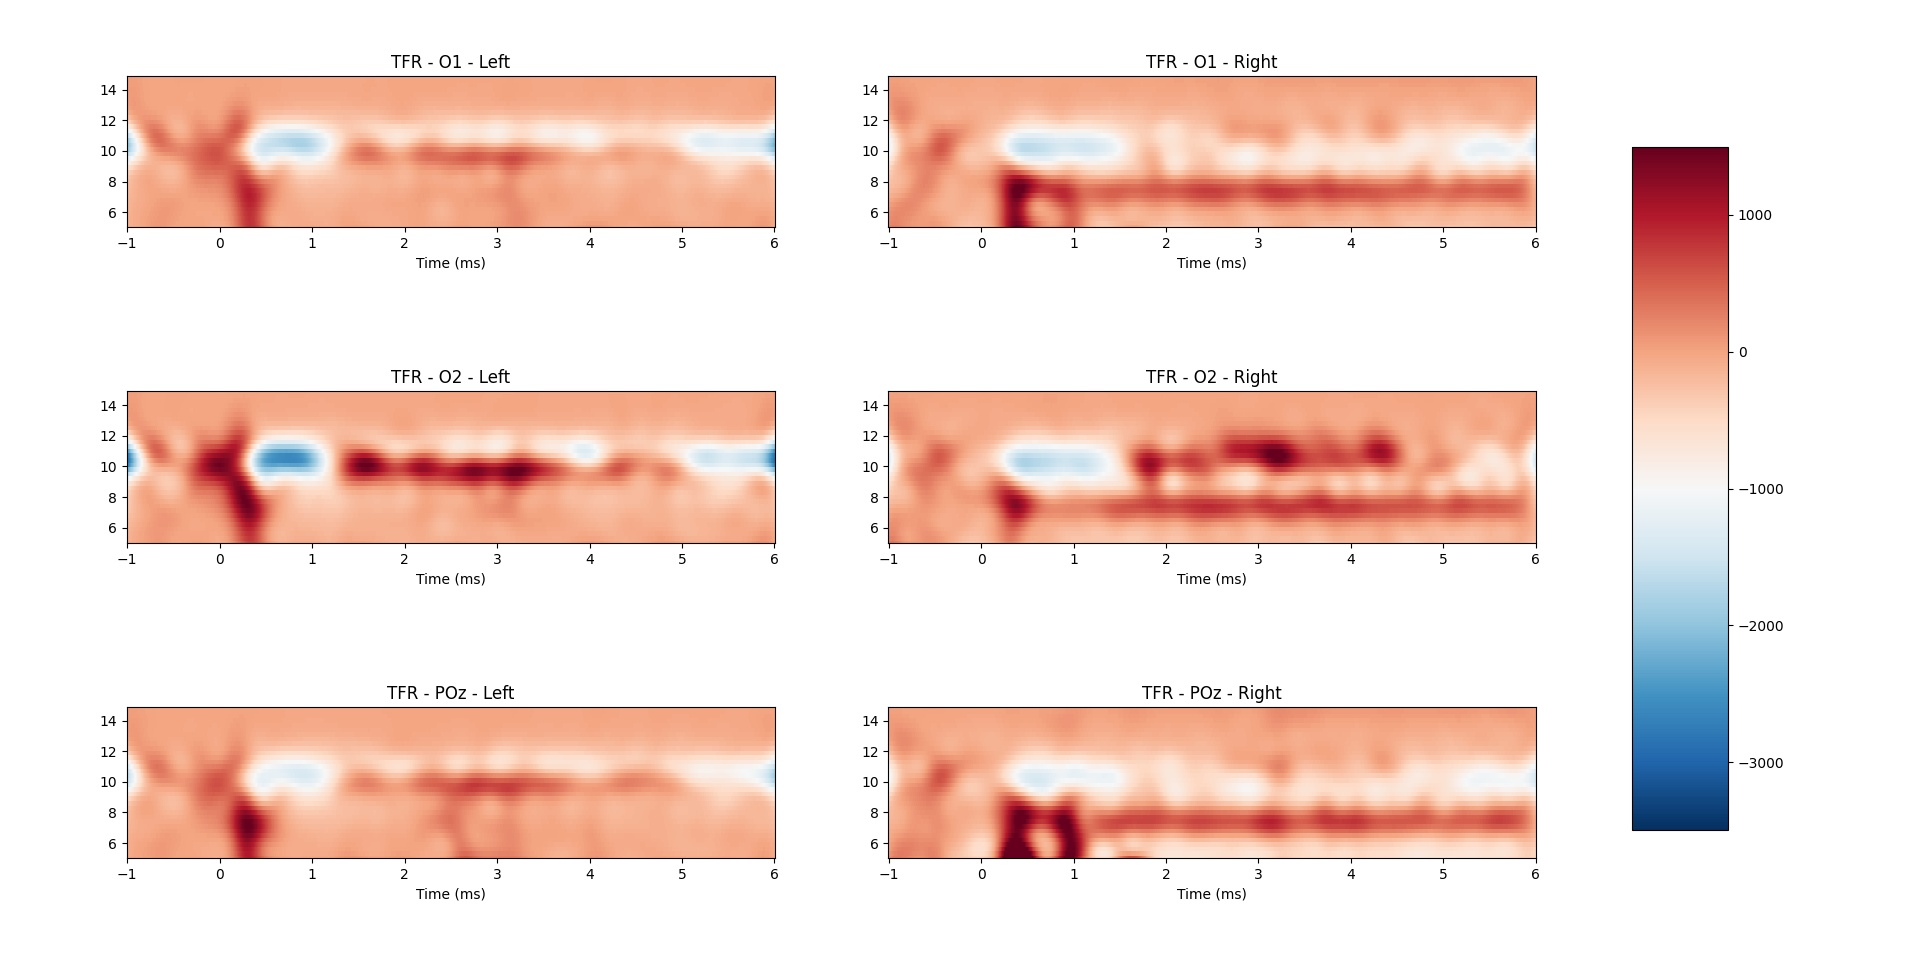
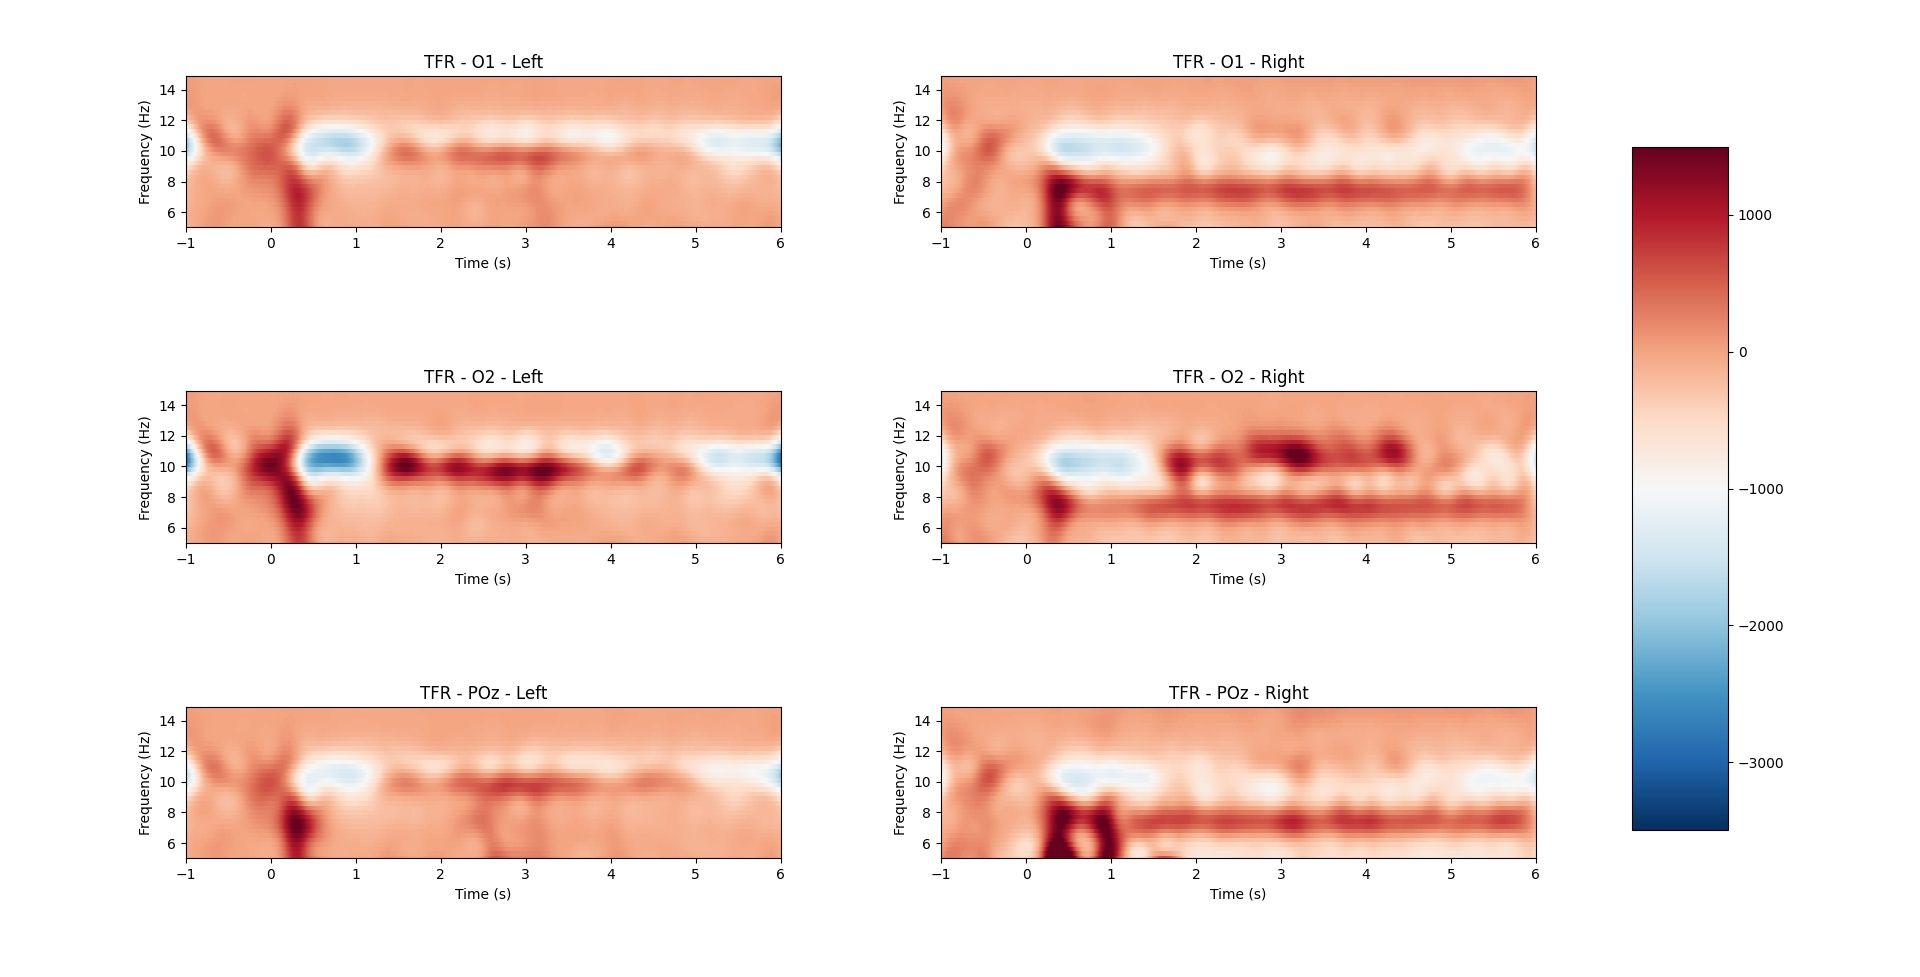
fixed time axis typo

diff --git a/examples/ssvep_demo/offline_analysis.py b/examples/ssvep_demo/offline_analysis.py
@@ -133,7 +133,7 @@ def main():
         for i in range(n_chan):
             mesh = ax[i, j].pcolormesh(x, y, power[j, i], cmap='RdBu_r', vmin=-3500, vmax=1500)
             ax[i, j].set_title('TFR - ' + chan_name[i] + ' - ' + class_names[j])
-            ax[i, j].set(ylim=freqs[[0, -1]], xlabel='Time (ms)')
+            ax[i, j].set(ylim=freqs[[0, -1]], xlabel='Time (s)', ylabel='Frequency (Hz)')
     plt.tight_layout()
     fig.subplots_adjust(right=0.8)
     cbar_ax = fig.add_axes([0.85, 0.15, 0.05, 0.7])
